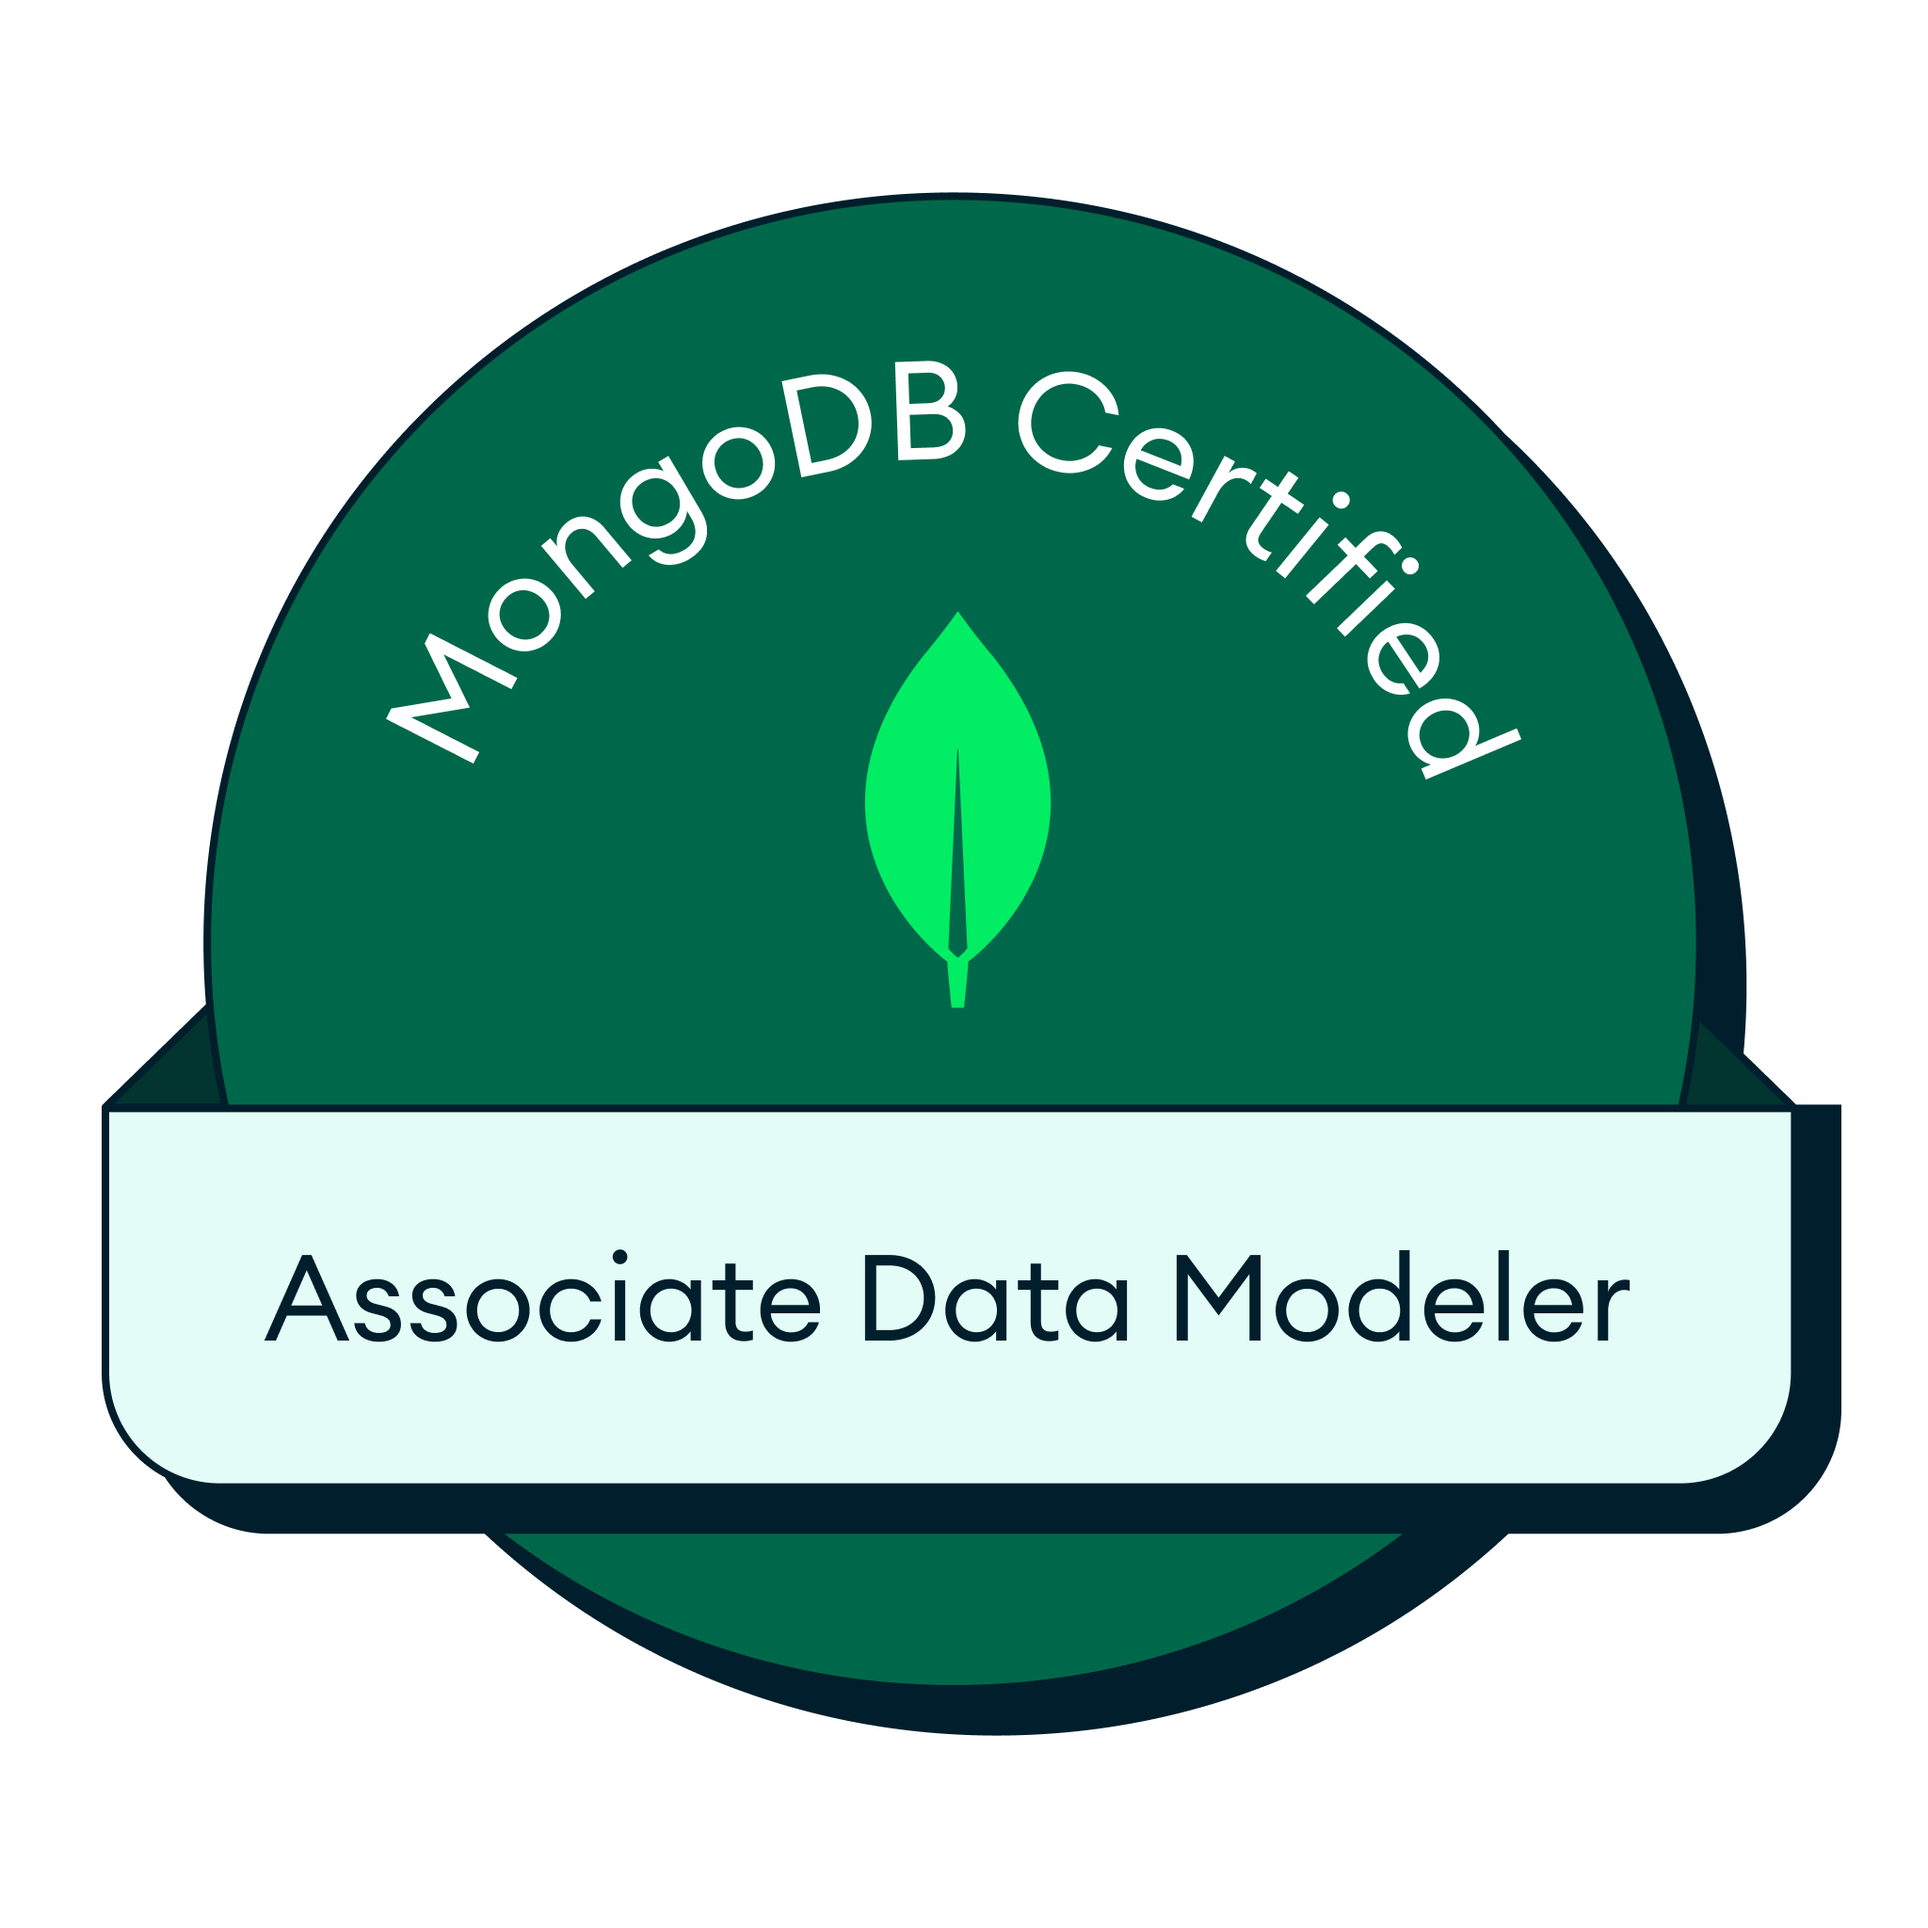
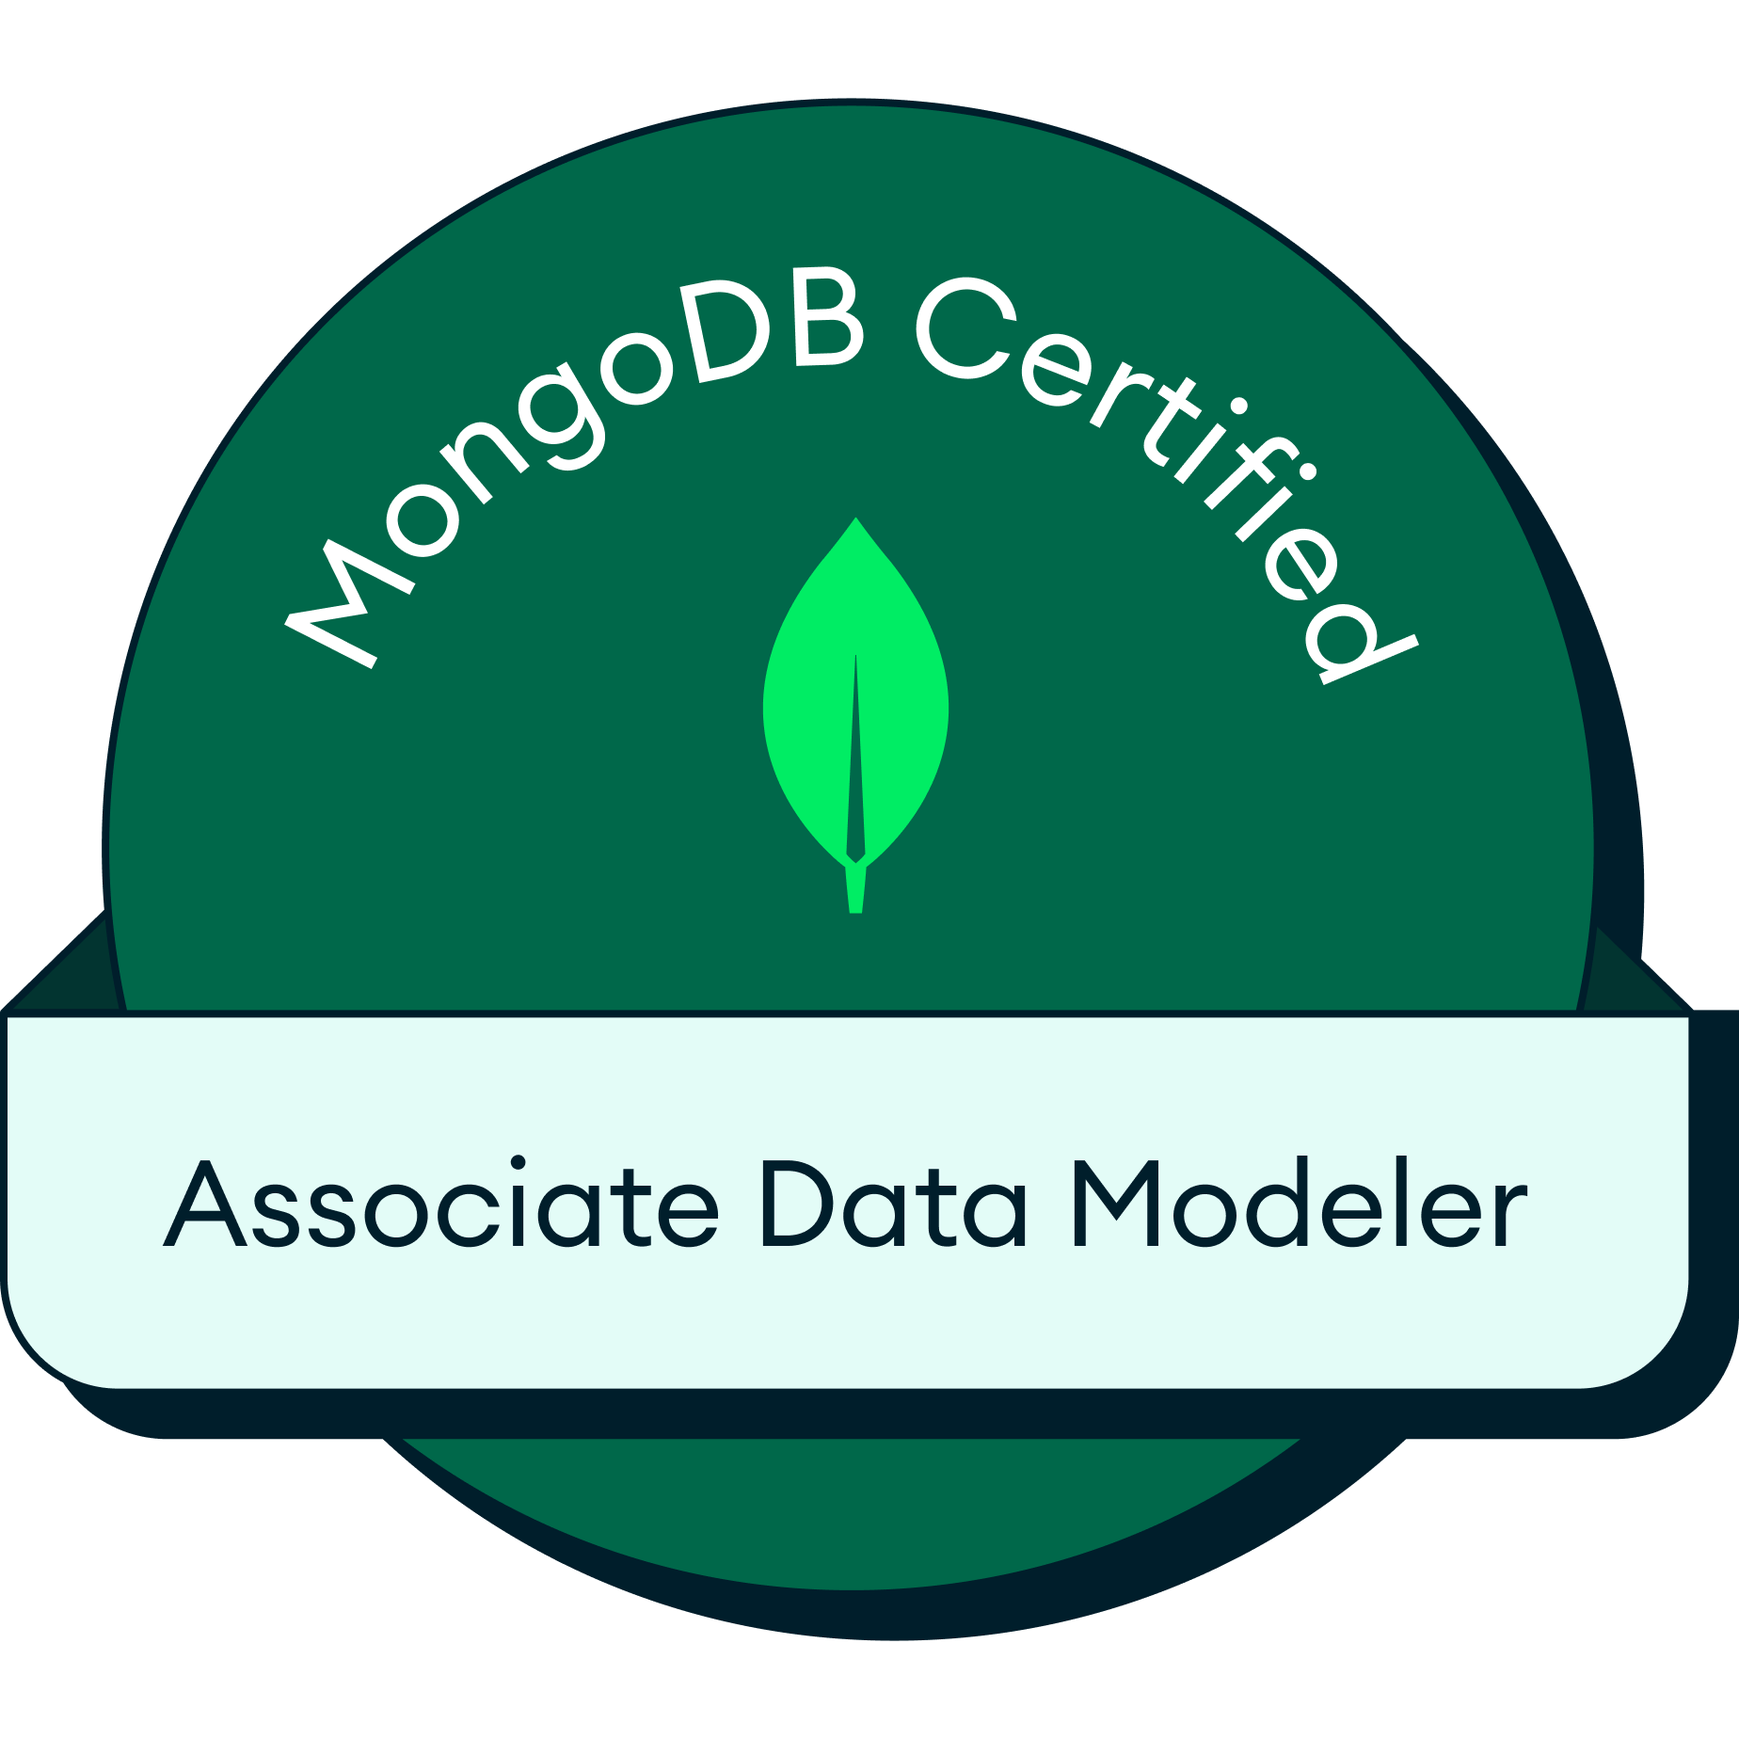
feat(certifications): Add multiple evidence support
Introduces an 'evidence' array to the certification content schema.
This allows associating multiple images, such as badges and certificates, with each certification entry.
Includes the addition of new and updated certification image assets.

diff --git a/src/content.config.ts b/src/content.config.ts
@@ -175,6 +175,17 @@ const certifications = defineCollection({
         }),
       })
       .optional(),
+    evidence: z
+      .array(
+        z.object({
+          url: z.string(),
+          alt: z.object({
+            en: z.string(),
+            tw: z.string(),
+          }),
+        })
+      )
+      .optional(),
   }),
 })
 
